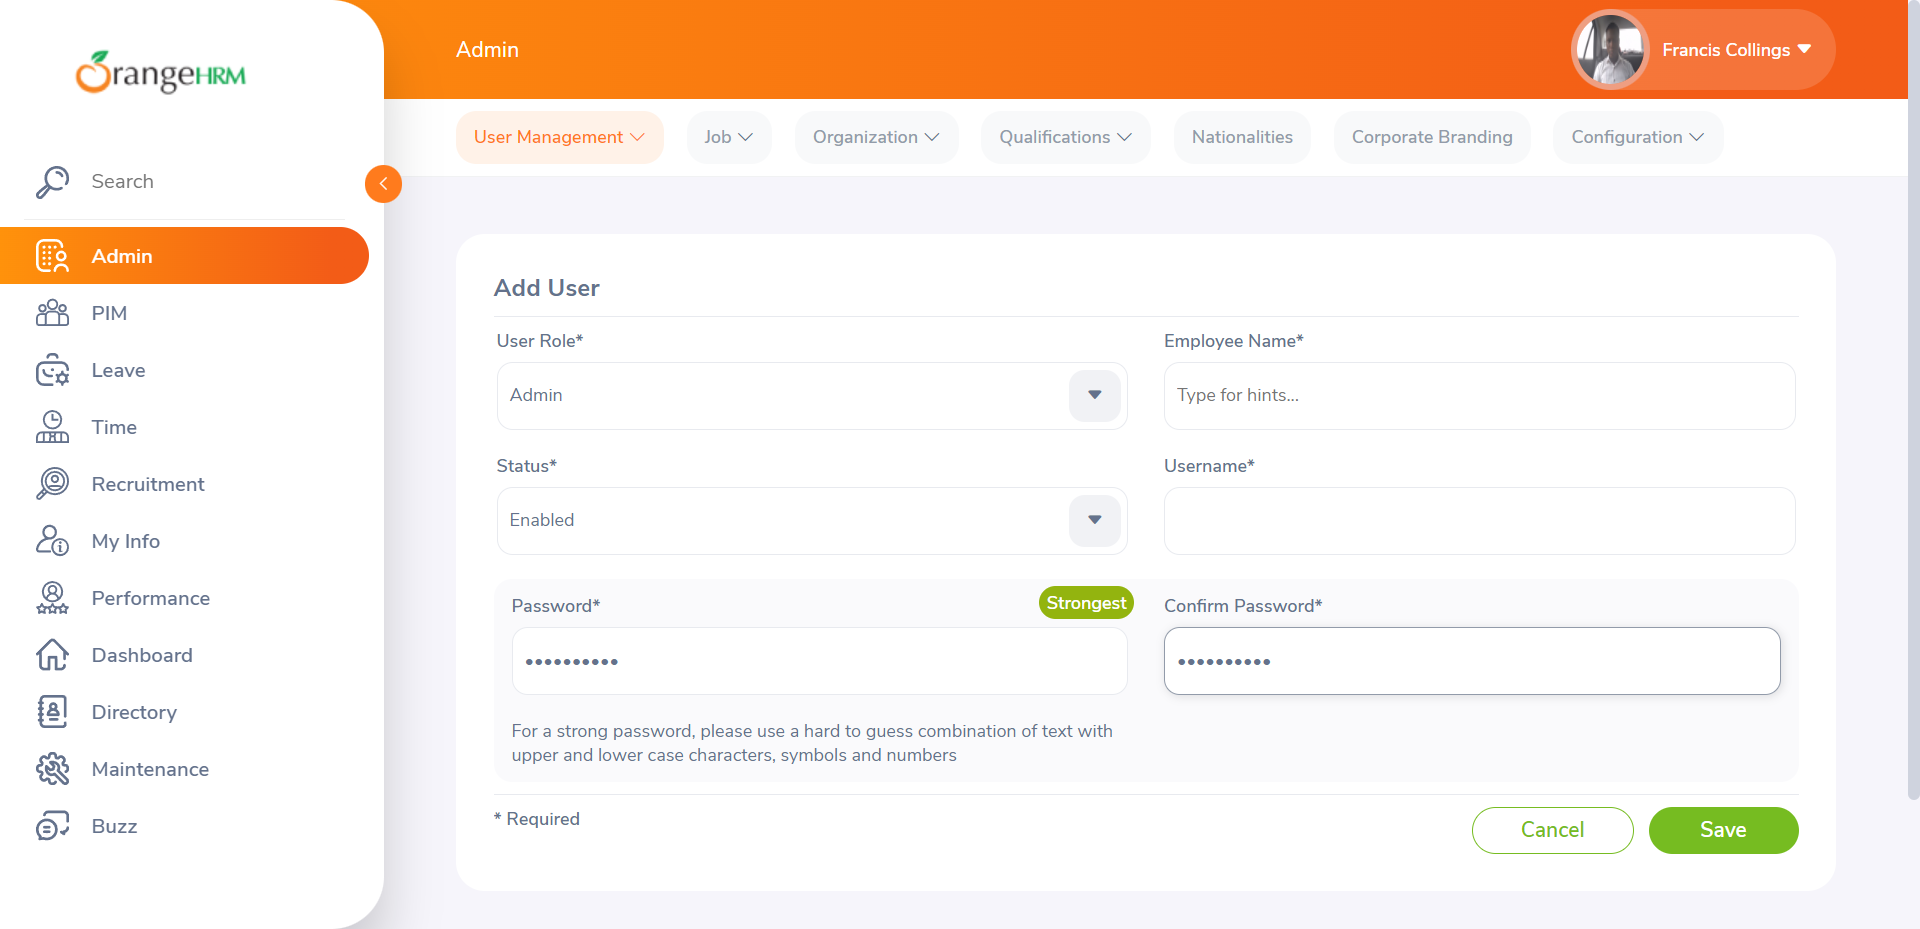
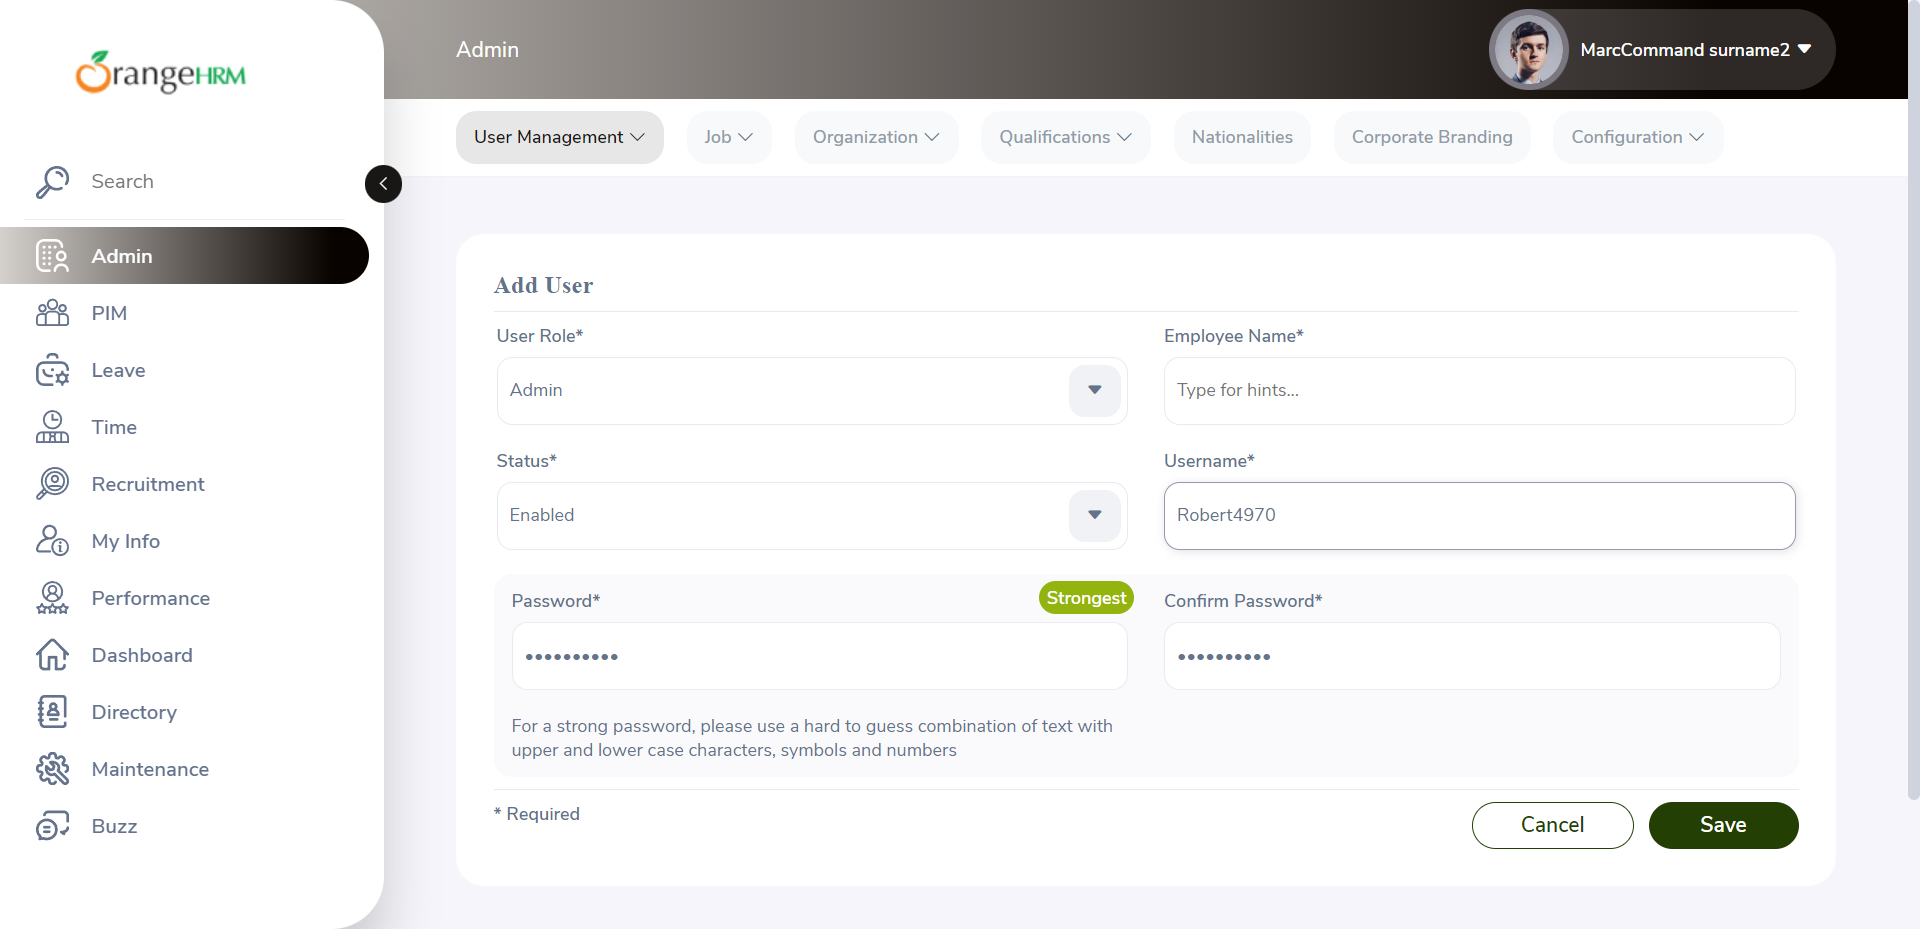
Modified action methods for dashboard page

diff --git a/Tests/Scripts/test_Dashboard.py b/Tests/Scripts/test_Dashboard.py
@@ -9,14 +9,15 @@ from Src.PageObjects.Locators import PageLocators
 
 class TestDashboard(TestBase):
 
-    def test_addUser(self):
+    def test_addNewUser(self):
         self.loginPage = LoginPage(self.driver)
         self.loginPage.launchURL()
         self.loginPage.adminLogin()
 
         self.dashboardPage = DashboardPage(self.driver)
         self.dashboardPage.logger.info('==== DashboardPage Test Begins =====')
-        ''' Navigate to Admin Module'''
+        ''' Navigate to Admin Module '''
+
         self.dashboardPage.navigateToAdminModule()
         page_url = self.driver.current_url
         if page_url == TestData.ADMIN_MODULE_URL:
@@ -31,7 +32,7 @@ class TestDashboard(TestBase):
         assert nav_header == TestData.ADMIN_MODULE_TOPBAR_TEXT
         self.dashboardPage.logger.info(f'Header: {nav_header}')
 
-        ''' Click on Add button from Admin Module'''
+        ''' Click on Add button from Admin Module '''
         self.dashboardPage.navigateToAddUser()
         try:
             assert self.driver.current_url == TestData.ADD_USER_PAGE_URL
@@ -41,9 +42,10 @@ class TestDashboard(TestBase):
         except Exception:
             raise AssertionError
 
-        ''' Adding New User'''
         self.dashboardPage.logger.info('Adding New User is in progress')
-        self.dashboardPage.addNewUser()
+
+        ''' Tests to check if User role & status set are correct '''
+        self.dashboardPage.setUserRoleAndStatus()
 
         user_role = self.dashboardPage.findelement(PageLocators.UserSelected).text
         self.dashboardPage.logger.info(f'User role selected as: {user_role}')
@@ -60,6 +62,12 @@ class TestDashboard(TestBase):
         except Exception as e:
             self.dashboardPage.logger.fatal(e)
             raise AssertionError
+
+        '''Set Password fields'''
+        self.dashboardPage.setPassword()
+
+        ''' Tests for Employee Name & Username '''
+        self.dashboardPage.setEmpNameAndUsername()
 
         self.driver.save_screenshot('./Screenshots/AddingUser.png')
         self.dashboardPage.logger.info(f'==== End of Test for {__name__} =====')

diff --git a/Src/PageObjects/Pages/DashboardPage.py b/Src/PageObjects/Pages/DashboardPage.py
@@ -19,13 +19,18 @@ class DashboardPage(BasePage):
         self.logger.info(f'Navigated to URL: {self.driver.current_url}')
         # time.sleep(2)
 
-    def addNewUser(self):
+    def setUserRoleAndStatus(self):
         self.click(PageLocators.UserRoleDropDownArrow)
         self.click(PageLocators.UserRoleAdmin)
         self.click(PageLocators.StatusDropDownArrow)
         self.click(PageLocators.Status)
 
+    def setPassword(self):
         self.set_text_value(PageLocators.Password, TestData.PASSWORD)
         self.set_text_value(PageLocators.ConfirmPassword, TestData.PASSWORD)
 
+    def setEmpNameAndUsername(self):
+        username = TestData.USERNAME
+        self.set_text_value(PageLocators.EmpUsername, username)
+        self.logger.info(f'Username set as: {username}')
         time.sleep(5)
